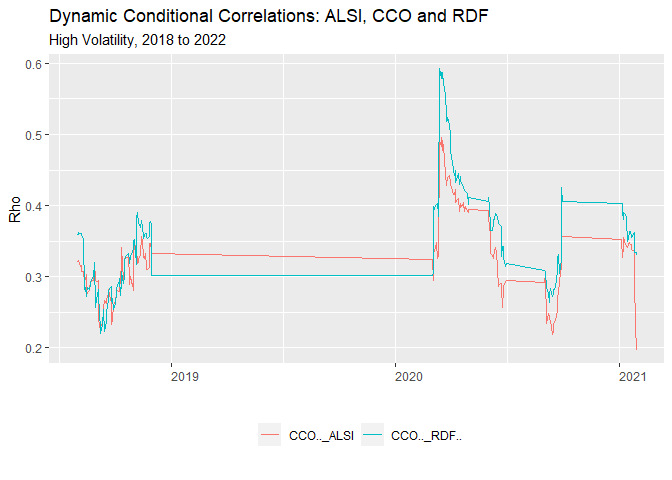
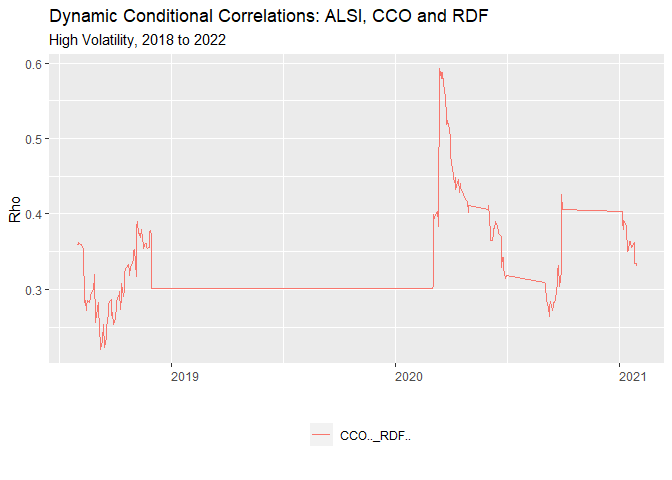
Commit 13

diff --git a/README.md b/README.md
@@ -374,7 +374,7 @@ Using the same code to stratify the data for high and low Rand
 volatility periods. I know can determine how changes in the Rand effect
 these stocks on an individual level.
 
-    graph_rename_func_mv(input_name_1 = "CCO",
+    graph_rename_func_mv(input_name_1 = "CCO.._RDF",
                          input_name_2 = "_CCO",
                          title = "Dynamic Conditional Correlations: ALSI, CCO and RDF",
                          subtitle = "High Volatility, 2018 to 2022",
@@ -390,7 +390,7 @@ volatility as well.
 Again, the same graphing function using ggplot is used for these
 results.
 
-    graph_rename_func_mv(input_name_1 = "CCO",
+    graph_rename_func_mv(input_name_1 = "CCO.._RDF",
                          input_name_2 = "_CCO",
                          title = "Dynamic Conditional Correlations: ALSI, CCO and RDF",
                          subtitle = "Low Volatility, 2018 to 2022",
